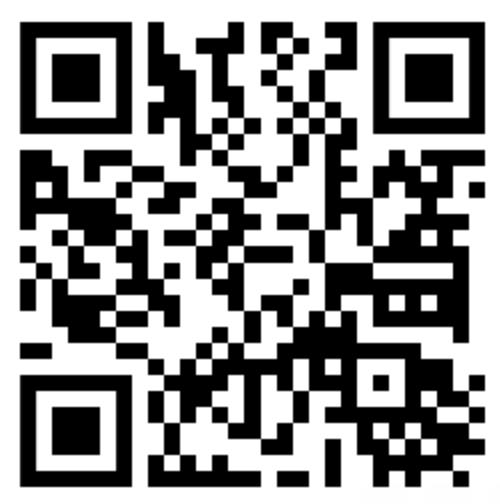
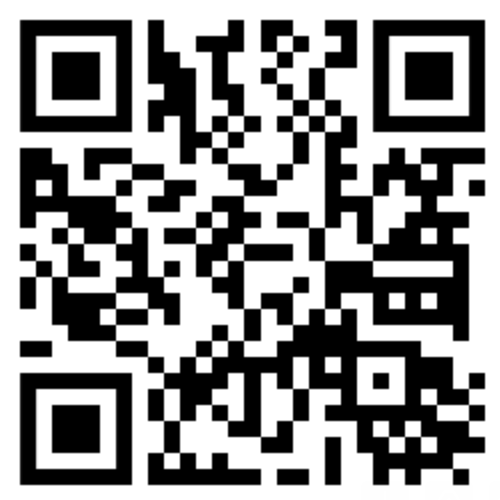
commented up code and fixed qr code sizing

diff --git a/my-church-site/src/components/Donations.tsx b/my-church-site/src/components/Donations.tsx
@@ -1,71 +1,84 @@
 "use client";
 
 import { useEffect } from "react";
+import Image from "next/image";
 
 import englishDonations from "@/locale/en/donations.json";
 import russianDonations from "@/locale/ru/donations.json";
 
 import { useLanguage } from "@/app/context/LanguageContext";
 
+// defining the props for the DonationPopup component
 type DonationPopupProps = {
   open: boolean;
   onClose: () => void;
 };
 
+// DonationPopup component definition and props destructuring
 export default function DonationPopup({
   open,
   onClose,
 }: DonationPopupProps) {
+  // get the current language from the context
   const { language } = useLanguage();
-
+  // choose translation file
   const t = language === "en"
     ? englishDonations
     : russianDonations;
 
+  // adds an event listener for the Escape key to close the popup
+  // runs once the popup is rendered
   useEffect(() => {
+    // if not open, do not add event listener
     if (!open) return;
 
+    // esc key listener
     function handleEscape(event: KeyboardEvent) {
       if (event.key === "Escape") {
         onClose();
       }
     }
-
+    // adding the event listener to the document
     document.addEventListener("keydown", handleEscape);
 
+    // cleanup function to remove the event listener when the popup is closed
     return () => {
       document.removeEventListener("keydown", handleEscape);
     };
-  }, [open, onClose]);
+  }, [open, onClose]); // dependency array. re-runs on changes to open or onClose
 
+  // if the popup is not open, do not render
   if (!open) return null;
 
   return (
+    // Overlay
     <div
       className="fixed inset-0 z-[1000] flex items-center justify-center bg-black/75 text-[var(--textDark)]"
-      onClick={onClose}
+      onClick={onClose} // listens for clicks on the overlay to close the popup
     >
 
       {/* Popup Content */}
       <div
         className="popupAppear relative flex w-80 flex-col items-center bg-[var(--buttonLight)] p-6 text-center"
-        onClick={(event) => event.stopPropagation()}
+        onClick={(event) => event.stopPropagation()} // prevents the click within the popup from bubbling up to the overlay
       >
 
         {/* Close Button */}
         <button
           className="absolute right-2 top-2 h-8 w-8 buttonDark flex items-center justify-center"
-          onClick={onClose}
+          onClick={onClose} // calls onClose
         >
           X
         </button>
 
         <h2>{t.donations.title}</h2>
 
-        <img
+        <Image
           src="/DonationLink.png"
           alt="Donation QR Code"
-          className="my-5 w-[13.75rem] max-w-full rounded-[0.625rem]"
+          width={500}
+          height={500}
+          className="my-5 w-[13.75rem]"
         />
 
         <a
